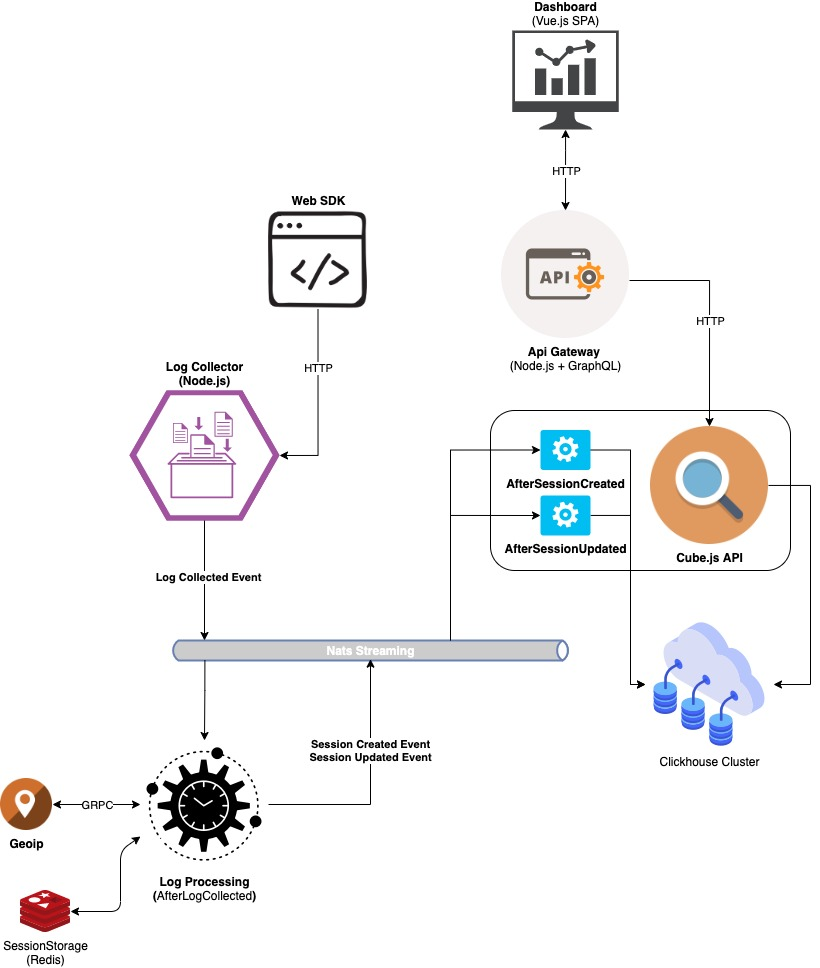
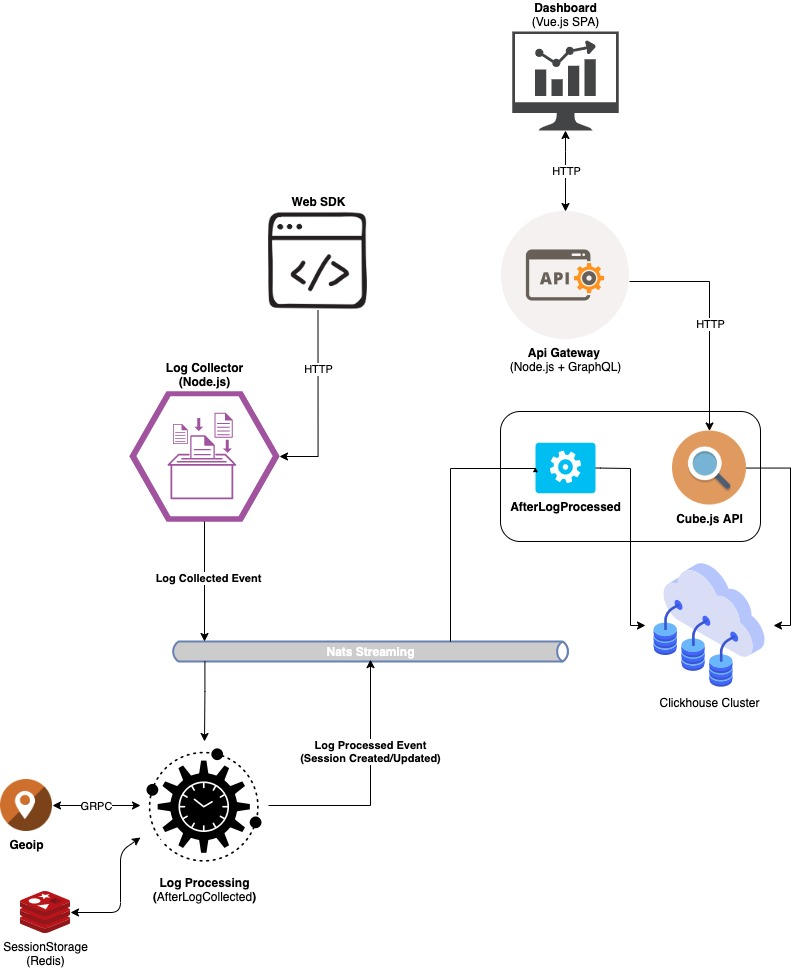
merge session events to one event channel (#11)

diff --git a/src/data-storage/src/generator.ts b/src/data-storage/src/generator.ts
@@ -6,8 +6,7 @@ import moment from 'moment'
 import EventProducer from '@webalytic/ms-tools/lib/infra/EventProducer'
 import { session } from '@webalytic/ms-tools/shared/log-processing/session'
 import {
-  SessionCreatedEventPayload,
-  SessionUpdatedEventPayload
+  LogProcessedEventPayload
 } from '@webalytic/ms-tools/shared/log-processing/log_processing_events'
 
 import { HitType, HitDataSource } from './constants'
@@ -92,15 +91,12 @@ async function main() {
       productsList: []
     })
 
-    const payload = new SessionCreatedEventPayload({ props, hit })
-    await eventProducer.send('SessionCreatedEvent', payload.toJSON())
+    const payload = new LogProcessedEventPayload({ props, hit })
+    await eventProducer.send('LogProcessedEvent', payload.toJSON())
 
     if (faker.random.boolean()) {
-      await new Promise((resolve) =>
-        setTimeout(() =>
-          resolve(), 200))
       const type = faker.random.arrayElement([HitType.PAGEVIEW, HitType.EVENT])
-      const payloadUpdated = new SessionUpdatedEventPayload({
+      const payloadUpdated = new LogProcessedEventPayload({
         prevProps: props,
         props: {
           ...props,
@@ -117,12 +113,13 @@ async function main() {
           time: time.clone().add(10, 'seconds').format('YYYY-MM-DD HH:mm:ss')
         }
       })
-      await eventProducer.send('SessionUpdatedEvent', payloadUpdated.toJSON())
+      await eventProducer.send('LogProcessedEvent', payloadUpdated.toJSON())
     }
 
     counter += 1
     const week = time.format('E')
     if (counter > (maxByDayOfWeek[week] - faker.random.number(100)) / 100) {
+      console.log(time.format('YYYY-MM-DD'))
       time.add(1, 'days')
       counter = 0
     }

diff --git a/src/data-storage/src/subscribers/AfterLogProcessed.ts b/src/data-storage/src/subscribers/AfterLogProcessed.ts
@@ -1,0 +1,47 @@
+import EventConsumer from '@webalytic/ms-tools/lib/infra/EventConsumer'
+import Subscriber from '@webalytic/ms-tools/lib/ddd/Subscriber'
+import Logger from '@webalytic/ms-tools/lib/logger'
+
+import { ILogProcessedEventPayload } from '@webalytic/ms-tools/shared/log-processing/log_processing_events'
+import { session } from '@webalytic/ms-tools/shared/log-processing/session'
+
+import SessionStorage from '../infra/SessionStorage'
+
+const logger = Logger('data-storage/AfterLogProcessed')
+
+interface IDeps{
+  eventConsumer: EventConsumer
+  sessionStorage: SessionStorage
+}
+
+export default class AfterLogProcessed extends Subscriber {
+  private sessionStorage: SessionStorage
+
+  constructor({ eventConsumer, sessionStorage }: IDeps) {
+    super({
+      event: 'LogProcessedEvent',
+      durableName: 'data-storage',
+      eventConsumer
+    })
+
+    this.sessionStorage = sessionStorage
+  }
+
+  async handler({ hit, props, prevProps }: ILogProcessedEventPayload): Promise<void> {
+    logger.info('AfterLogProcessed')
+    logger.debug({ props, hit })
+
+    if (prevProps) {
+      await this.sessionStorage.update(
+        new session.Hit(hit),
+        new session.SessionProps(props),
+        new session.SessionProps(prevProps)
+      )
+    } else {
+      await this.sessionStorage.insert(
+        new session.Hit(hit),
+        new session.SessionProps(props)
+      )
+    }
+  }
+}

diff --git a/src/log-processing/src/entities/Session/events/SessionUpdatedEvent.ts b/src/log-processing/src/entities/Session/events/SessionUpdatedEvent.ts
@@ -1,14 +1,14 @@
-import { SessionUpdatedEventPayload } from '@webalytic/ms-tools/shared/log-processing/log_processing_events'
+import { LogProcessedEventPayload } from '@webalytic/ms-tools/shared/log-processing/log_processing_events'
 import { session } from '@webalytic/ms-tools/shared/log-processing/session'
 import BaseEvent from './BaseEvent'
 
 export default class SessionUpdatedEvent extends BaseEvent {
-  public payload: SessionUpdatedEventPayload
+  public payload: LogProcessedEventPayload
 
   constructor(hit: session.Hit, props: session.SessionProps, prevProps: session.SessionProps) {
-    super('SessionUpdatedEvent')
+    super()
 
-    this.payload = new SessionUpdatedEventPayload({
+    this.payload = new LogProcessedEventPayload({
       props,
       prevProps,
       hit

diff --git a/src/log-processing/src/entities/Session/events/SessionCreatedEvent.ts b/src/log-processing/src/entities/Session/events/SessionCreatedEvent.ts
@@ -1,14 +1,14 @@
-import { SessionCreatedEventPayload } from '@webalytic/ms-tools/shared/log-processing/log_processing_events'
+import { LogProcessedEventPayload } from '@webalytic/ms-tools/shared/log-processing/log_processing_events'
 import { session } from '@webalytic/ms-tools/shared/log-processing/session'
 import BaseEvent from './BaseEvent'
 
 export default class SessionCreatedEvent extends BaseEvent {
-  public payload: SessionCreatedEventPayload
+  public payload: LogProcessedEventPayload
 
   constructor(hit: session.Hit, props: session.SessionProps) {
-    super('SessionCreatedEvent')
+    super()
 
-    this.payload = new SessionCreatedEventPayload({
+    this.payload = new LogProcessedEventPayload({
       props,
       hit
     })

diff --git a/src/data-storage/src/subscribers/index.ts b/src/data-storage/src/subscribers/index.ts
@@ -3,8 +3,7 @@
 import EventConsumer from '@webalytic/ms-tools/lib/infra/EventConsumer'
 import SessionStorage from '../infra/SessionStorage'
 
-import AfterSessionCreated from './AfterSessionCreated'
-import AfterSessionUpdated from './AfterSessionUpdated'
+import AfterLogProcessed from './AfterLogProcessed'
 
 export default (): any => {
   const eventConsumer = new EventConsumer({
@@ -19,12 +18,7 @@ export default (): any => {
     async onInit(): Promise<void> {
       await eventConsumer.init()
 
-      new AfterSessionCreated({
-        eventConsumer,
-        sessionStorage
-      })
-
-      new AfterSessionUpdated({
+      new AfterLogProcessed({
         eventConsumer,
         sessionStorage
       })

diff --git a/src/log-processing/src/entities/Session/events/BaseEvent.ts b/src/log-processing/src/entities/Session/events/BaseEvent.ts
@@ -1,9 +1,5 @@
 export default class BaseEvent {
-  private name: string
-
-  constructor(name: string) {
-    this.name = name
-  }
+  private name: 'LogProcessedEventPayload'
 
   get event(): string {
     return this.name
